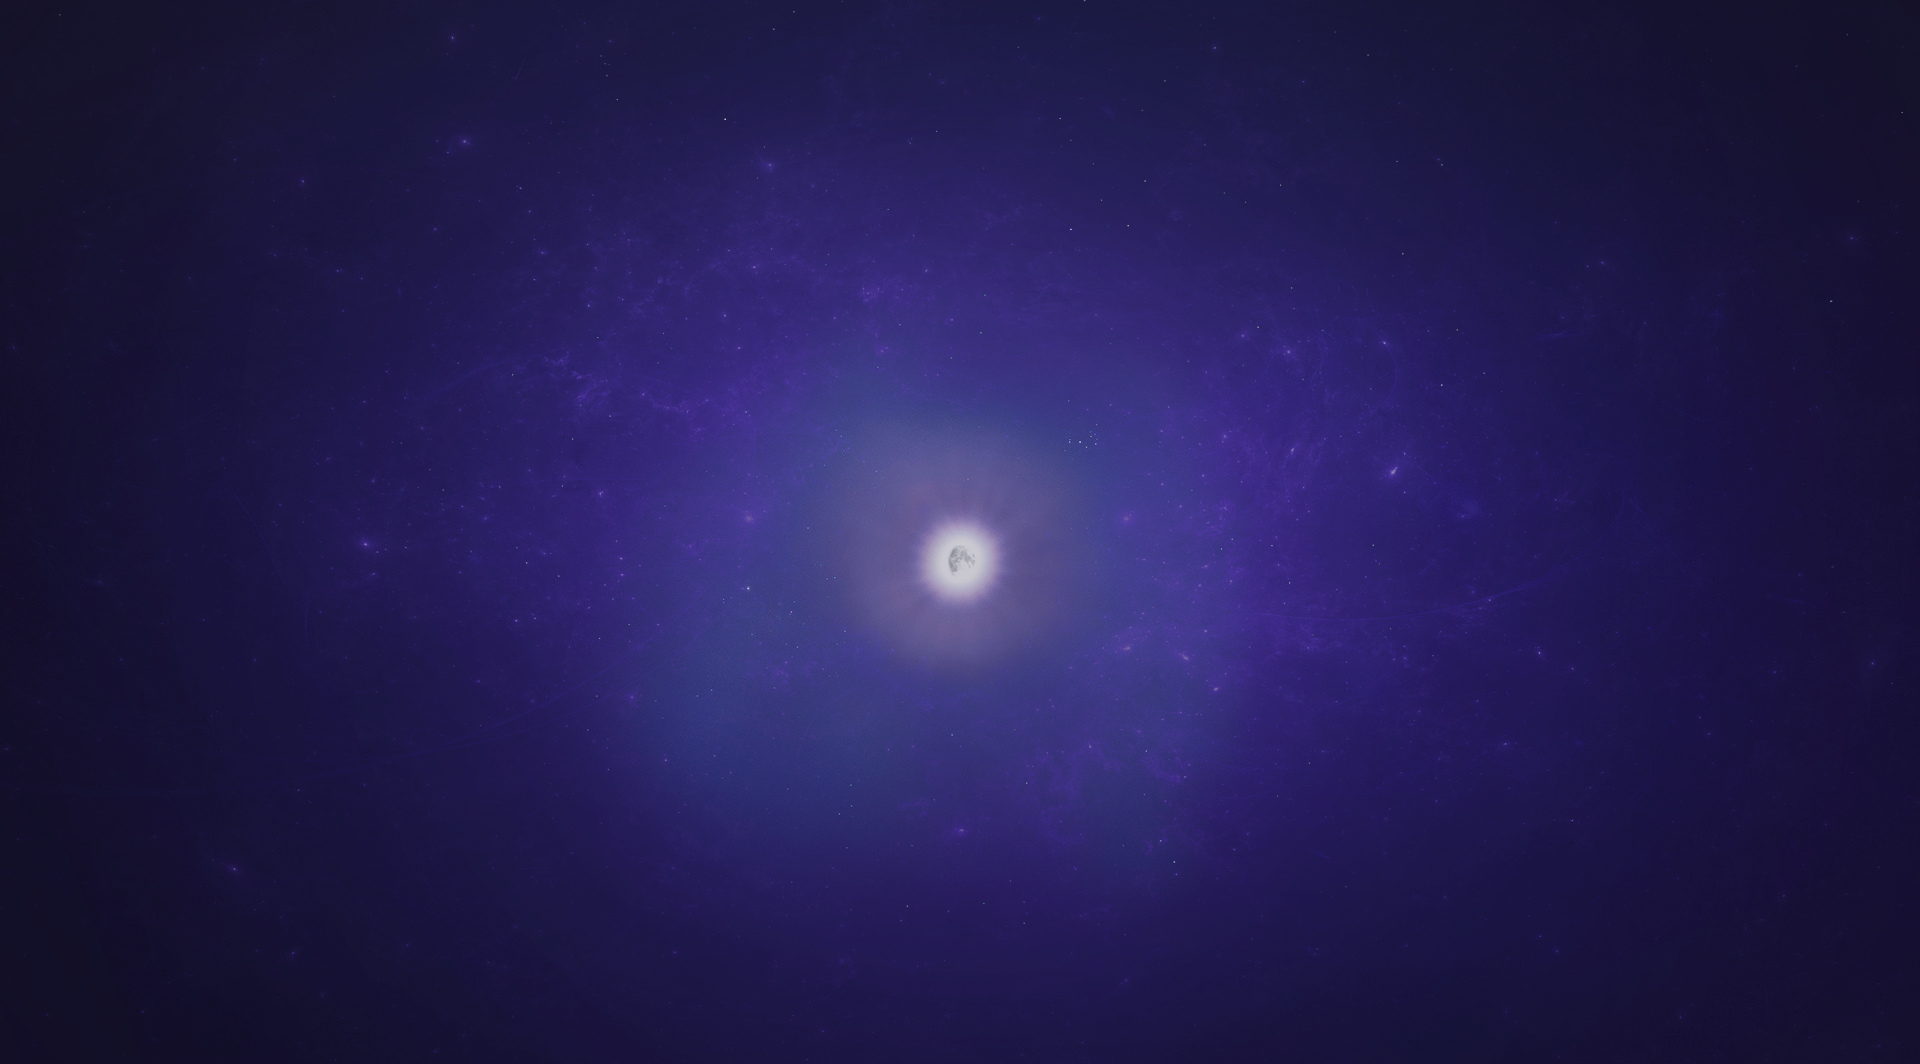
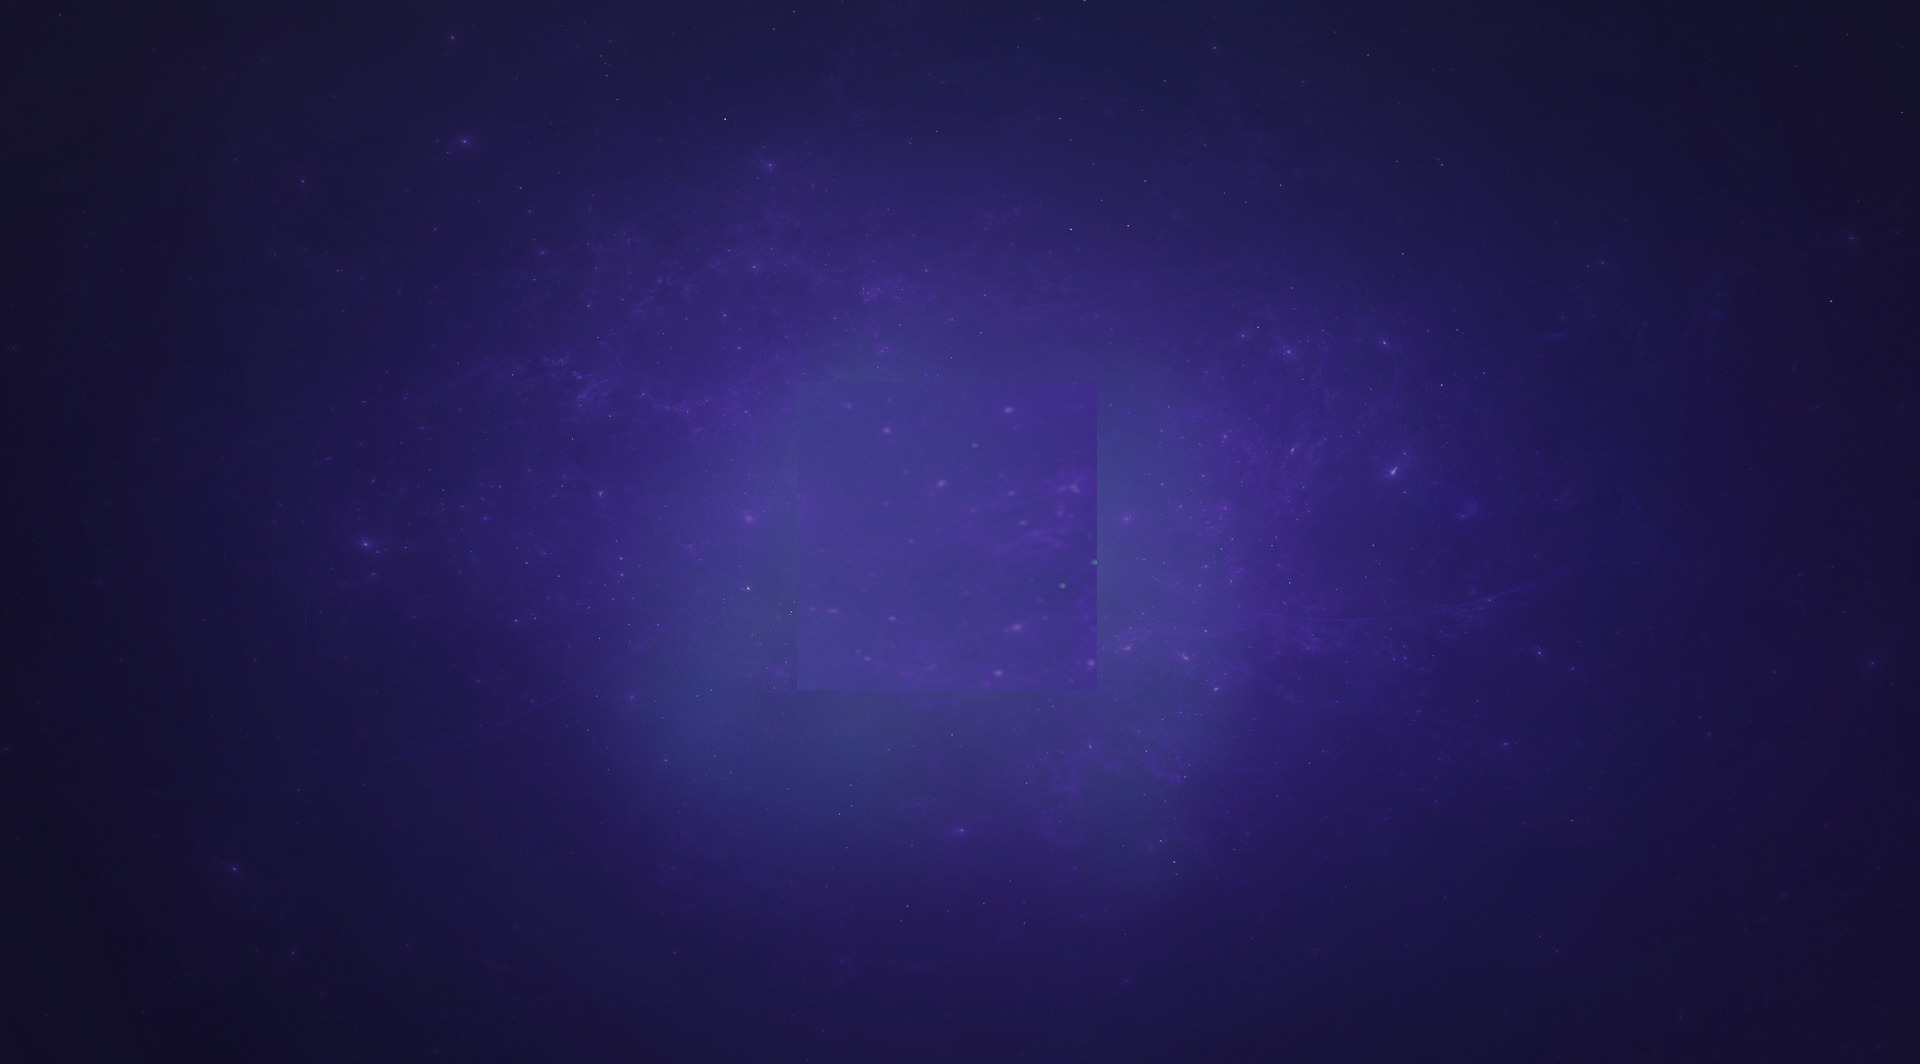
non mobile style excluding glowy

Changed region(s): [[0.4375, 0.4032, 0.5625, 0.6203]]

diff --git a/client/src/components/Behodler/Swap/TradingBox3/index.tsx b/client/src/components/Behodler/Swap/TradingBox3/index.tsx
@@ -1,7 +1,7 @@
 import * as React from 'react'
 import { useEffect, useCallback, useState, useContext } from 'react'
 import ExtendedTextField from './ExtendedTextField'
-import { Button, IconButton, Box, makeStyles, Theme } from '@material-ui/core'
+import { Button, IconButton, Box, makeStyles, Theme, Grid, Hidden } from '@material-ui/core'
 import tokenListJSON from '../../../../blockchain/behodlerUI/baseTokens.json'
 import { WalletContext } from '../../../Contexts/WalletStatusContext'
 import { Images } from './ImageLoader'
@@ -12,8 +12,8 @@ import NewField from './NewField'
 import TokenSelector from './TokenSelector'
 
 interface props {
-    
- }
+
+}
 
 const sideScaler = (scale) => (perc) => (perc / scale) + "%"
 
@@ -21,14 +21,11 @@ const sideScaler = (scale) => (perc) => (perc / scale) + "%"
 const scaler = sideScaler(0.8)
 const useStyles = makeStyles((theme: Theme) => ({
     root: {
-        // boxSizing: 'border-box',
+
         margin: '50px auto',
-        maxWidth: '800px',
-        padding: '40px 20px',
         backgroundColor: 'rgba(255,255,255,0)',
         borderRadius: 20,
-        width: '90%',
-        // boxShadow: '0 4px 8px 0 rgba(0, 0, 0, 0.2), 0 6px 20px 0 rgba(0, 0, 0, 0.19)',
+        alignContent: "center"
     },
     iconWrapper: {
         display: 'flex',
@@ -39,20 +36,14 @@ const useStyles = makeStyles((theme: Theme) => ({
         display: "flex",
         alignItems: "center",
         justifyContent: "center",
-        border: "2px solid rgba(218, 86, 221)",
+        border: "1px solid rgba(218, 86, 221)",
         borderRadius: "5px",
-        bottom: "20%",
+        marginTop: 70,
         left: "35%",
-        position: "absolute",
-        // '&:hover': {
-        //     background: "rgba(218, 86, 221,0.9)",
-        //  },
     },
     swapButton: {
-        background: "linear-gradient(105.11deg, rgba(23, 23, 20, 0) 46.06%, rgba(47, 48, 59, 0.255) 77.76%)",
-        position: "relative",
-        top: "50%",
-        // left: "10%",
+        background: "linear-gradient(105.11deg, rgba(218, 86, 221,0.1) 46.06%, rgba(218, 86, 221,0.1) 77.76%)",
+
         width: 500,
         '&:hover': {
             background: "rgba(218, 86, 221,0.4)",
@@ -69,8 +60,6 @@ const useStyles = makeStyles((theme: Theme) => ({
         position: "absolute",
         left: "10%",
         top: "40%",
-        // marginLeft:-250,
-        // marginTop:-250
     },
     leftSelector: {
         position: "absolute",
@@ -92,7 +81,37 @@ const useStyles = makeStyles((theme: Theme) => ({
         right: scaler(15),
         top: "40%"
 
+    },
+    monsterContainer: {
+        marginTop: 60,
+        position: "relative",
+        zIndex: 100,
+        width: 220,
+        height: 220, borderRadius: "50%",
+
+        alignContent: "center"
+    },
+    monster: {
+        display: "block",
+        margin: "auto",
+        borderRadius: "50%",
+
+    },
+
+    fieldGrid: {
+        margin: "0 auto",
+        width: "80%",
+        top: "25%",
+        left: "10%",
+        position: "absolute",
+
+    },
+    Info: {
+        right: "1%",
+        color: "white",
+        marginTop: 30
     }
+
 
 }))
 
@@ -375,16 +394,86 @@ export default function (props: props) {
                     decimalPlaces={outputDecimals}
                 />
             </div>
-            <div className={classes.leftSelector}><TokenSelector token={2} /></div>
-            <div className={classes.rightSelector}>  <TokenSelector token={4} /></div>
-            <div className={classes.leftField}> <NewField direction="FROM" balance="3.1" estimate="1010.1" token="DAI" /></div>
-            <div className={classes.rightField}><NewField direction="TO" balance="200.1" estimate="4200.1" token="EYE" /></div>
+            <Hidden mdDown>
 
-            <Box className={classes.buttonWrapper}>
-                <Button className={classes.swapButton} disabled={!swapEnabled && false} variant="contained" color="primary" size="large" onClick={() => setSwapClicked(true)}>
-                    {swapText}
-                </Button>
-            </Box>
+                <Grid container
+                    direction="column"
+                    justify="center"
+                    alignItems="center"
+                    className={classes.fieldGrid}
+                >
+                    <Grid item>
+                        <Grid
+                            container
+                            direction="row"
+                            justify="center"
+                            alignItems="center"
+
+                            spacing={3}
+                        >
+                            <Grid item>
+                                <NewField direction="FROM" balance="3.1" estimate="1010.1" token="DAI" />
+                            </Grid>
+                            <Grid item>
+                                <Grid
+                                    container
+                                    direction="row"
+                                    justify="space-between"
+                                    alignItems="center"
+                                >
+                                    <Grid item>
+                                        <TokenSelector token={2} />
+                                    </Grid>
+                                    <Grid item>
+                                        <div className={classes.monsterContainer}>
+
+                                            <img width={220} src={Images[13]} className={classes.monster} />
+                                        </div>
+                                    </Grid>
+                                    <Grid item>
+                                        <TokenSelector token={4} />
+                                    </Grid>
+                                </Grid>
+                            </Grid>
+
+                            <Grid item>
+                                <NewField direction="TO" balance="200.1" estimate="4200.1" token="EYE" />
+                            </Grid>
+                        </Grid>
+
+                    </Grid>
+                    <Grid item>
+
+                        <Box className={classes.buttonWrapper}>
+
+                            <Button className={classes.swapButton} disabled={!swapEnabled && false} variant="contained" color="primary" size="large" onClick={() => setSwapClicked(true)}>
+                                {swapText}
+                            </Button>
+
+                        </Box>
+
+
+                    </Grid>
+                    <Grid item>
+                        <Grid container
+                            direction="column"
+                            justify="center"
+                            alignItems="center"
+                            spacing={2}
+                            className={classes.Info}
+                        >
+                            <Grid item>
+                                1 ETH = 1 EYE
+                            </Grid>
+                            <Grid item>
+                                <Button color="secondary" variant="outlined">
+                                    More info
+                                </Button>
+                            </Grid>
+                        </Grid>
+                    </Grid>
+                </Grid>
+            </Hidden>
         </Box>
     )
 }

diff --git a/client/src/components/Behodler/Swap/TradingBox3/NewField.tsx b/client/src/components/Behodler/Swap/TradingBox3/NewField.tsx
@@ -12,11 +12,11 @@ interface props {
 
 
 
-const scaler = (scale)=> num => Math.floor(num*scale)
-const scale = scaler (0.9) 
+const scaler = (scale) => num => Math.floor(num * scale)
+const scale = scaler(0.9)
 const useStyles = makeStyles((theme: Theme) => ({
     root: {
-        width: scale(278)
+        width: scale(310),
     },
     Direction: {
 
@@ -46,7 +46,7 @@ const useStyles = makeStyles((theme: Theme) => ({
         fontSize: scale(24),
         padding: "10px 20px 10px 20px",
         color: "#FFFFFF",
-        borderRadius: 5
+        borderRadius: 5,
 
 
     },

diff --git a/client/src/components/Behodler/Swap/TradingBox3/ImageLoader.tsx b/client/src/components/Behodler/Swap/TradingBox3/ImageLoader.tsx
@@ -13,4 +13,5 @@ import eyedai from '../../../../images/behodler/eyedai.png'
 import scxeth from '../../../../images/behodler/scxeth.png'
 import scxeye from '../../../../images/behodler/scxeye.png'
 import eye from '../../../../images/behodler_b.png'
-export const Images = [One, Two, Three, Four, Five, Six, Seven/* Eight*/, Nine, /*Ten*/  Dai, eye,eyedai, scxeth, scxeye]
+import monster from '../../../../images/new/Monster.png'
+export const Images = [One, Two, Three, Four, Five, Six, Seven/* Eight*/, Nine, /*Ten*/  Dai, eye,eyedai, scxeth, scxeye,monster]

diff --git a/client/src/components/LayoutFrame/index.tsx b/client/src/components/LayoutFrame/index.tsx
@@ -3,7 +3,7 @@ import { useContext } from 'react'
 import { Box, makeStyles, createStyles } from '@material-ui/core';
 import Swap from '../Behodler/Swap/index'
 import { WalletContext } from "../Contexts/WalletStatusContext";
-import backImage from "../../images/new/background3.png";
+import backImage from "../../images/new/background2.png";
 
 const useStyles = makeStyles((theme) =>
     createStyles({
